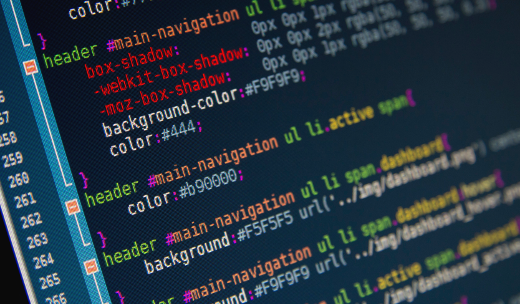
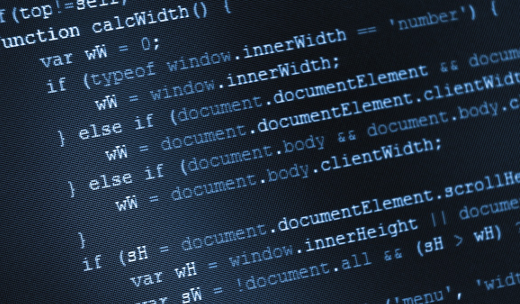
Updated landing feature imgs. Added temp help, about & contact pages.

diff --git a/app/assets/stylesheets/custom.css.scss b/app/assets/stylesheets/custom.css.scss
@@ -408,7 +408,7 @@ footer
   }
   .slider-dots li 
   {
-    color: $gray;
+    color: $gray-light;
     display: inline;
     font-size: 30px;
     margin-right: 5px;

diff --git a/config/routes.rb b/config/routes.rb
@@ -4,6 +4,7 @@ Rails.application.routes.draw do
   root    'static_pages#home', as: 'home'
   get     'help'    =>  'static_pages#help'
   get     'about'   =>  'static_pages#about'
+  get     'contact' =>  'static_pages#contact'
 
   # get 'payments_proxy/read_response'
 

diff --git a/app/controllers/static_pages_controller.rb b/app/controllers/static_pages_controller.rb
@@ -7,4 +7,7 @@ class StaticPagesController < ApplicationController
 
   def help
   end
+
+  def contact
+  end
 end
